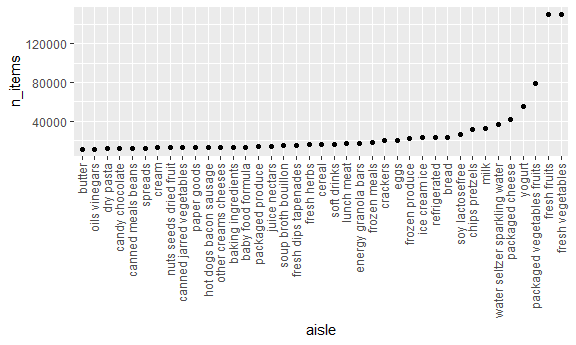
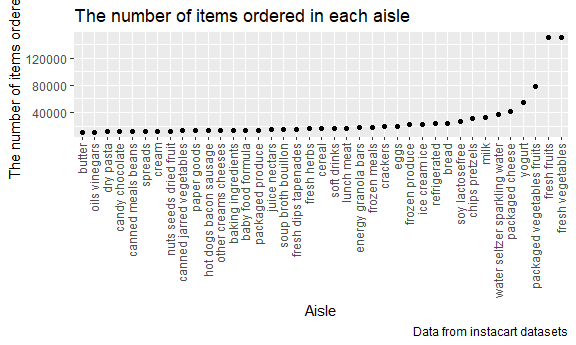
some editings

diff --git a/p8105_hw3_yc3883.md b/p8105_hw3_yc3883.md
@@ -41,6 +41,12 @@ numaisle_df %>%
     ) %>% 
   ggplot(aes(x = aisle, y = n_items)) +
   geom_point() + 
+  labs(
+    title = "The number of items ordered in each aisle",
+    x = "Aisle",
+    y = "The number of items ordered",
+    caption = "Data from instacart datasets"
+  ) +
   theme(axis.text.x = element_text(angle = 90, vjust = 0.4, hjust = 1))
 
 aisle_items_plot
@@ -240,7 +246,13 @@ health_exc =
   select(year, locationabbr, mean_data_value) %>% 
   distinct() %>% 
   ggplot(aes(x = year, y = mean_data_value, color = locationabbr)) +
-  geom_line() +
+  geom_line() +  
+  labs(
+    title = "Average data_value for each state across years",
+    y = "Data Value",
+    x = "year",
+    caption = "Data from BRFSS datasets"
+  ) +
   viridis::scale_color_viridis(
     name = "State",
     discrete = TRUE
